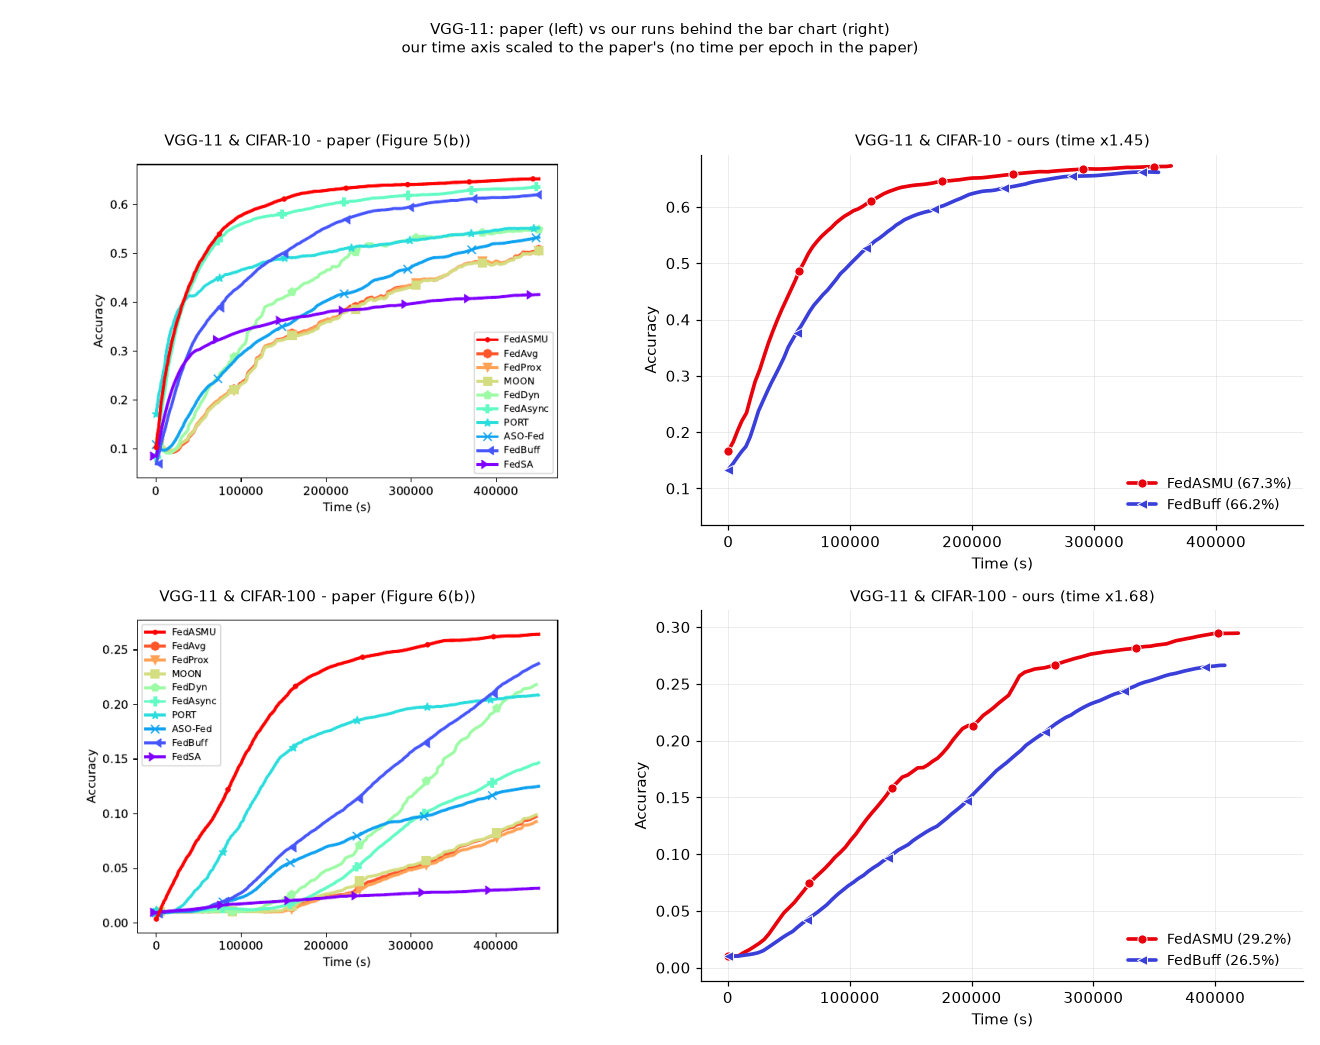
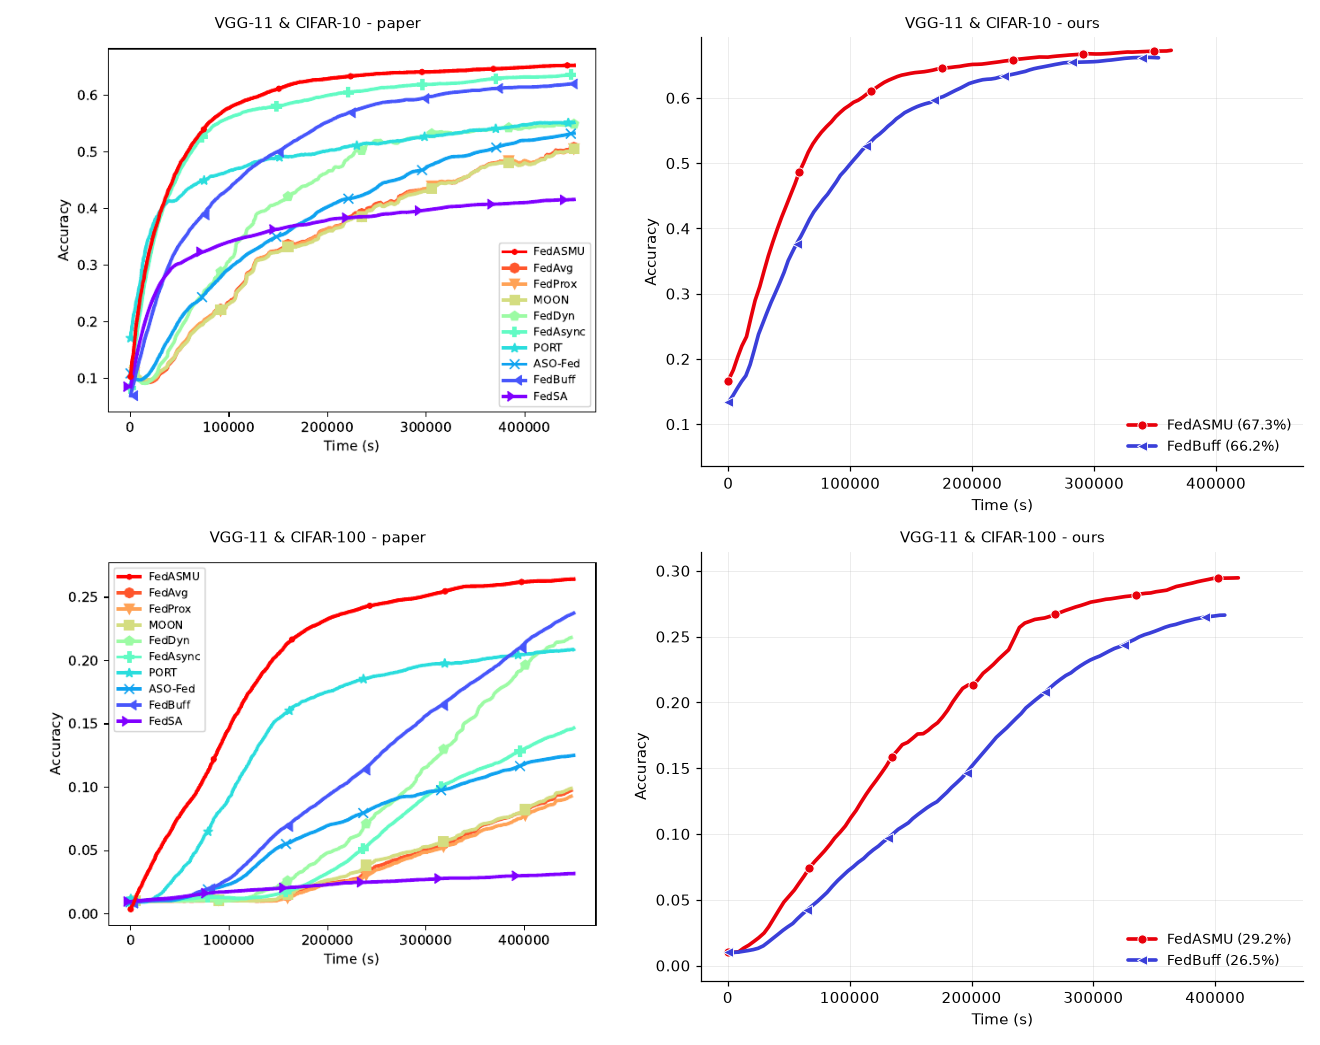
VGG timefit copy: plain panel titles, no suptitle

diff --git a/scripts/vgg_pilot_timefit.py b/scripts/vgg_pilot_timefit.py
@@ -46,7 +46,7 @@ def main():
         scales[key] = {"scale": s, "ratios": [round(v, 3) for v in ratios]}
         ax[r, 0].imshow(mpimg.imread(os.path.join(PAPER, f"{key}.png")))
         ax[r, 0].axis("off")
-        ax[r, 0].set_title(f"{title} - paper ({pfig})", fontsize=10)
+        ax[r, 0].set_title(f"{title} - paper", fontsize=10)
         x, ymax, xmax = ax[r, 1], a["ylim"][1], a["xlim"][1]
         for n, al, col, mk in RUNS:
             d = data[n]
@@ -67,10 +67,8 @@ def main():
         for sp in ("top", "right"):
             x.spines[sp].set_visible(False)
         x.legend(fontsize=9, loc="lower right", frameon=False)
-        x.set_title(f"{title} - ours (time x{s:.2f})", fontsize=10)
-    f.suptitle("VGG-11: paper (left) vs our runs behind the bar chart (right)\n"
-               "our time axis scaled to the paper's (no time per epoch in the paper)", fontsize=10)
-    f.tight_layout(rect=(0, 0, 1, 0.94))
+        x.set_title(f"{title} - ours", fontsize=10)
+    f.tight_layout()
     f.savefig(os.path.join(OUT, "vgg11_pilot_vs_paper_timefit.png"), dpi=110)
     json.dump(scales, open(os.path.join(OUT, "timefit_scale.json"), "w"), indent=1)
     print(scales)
